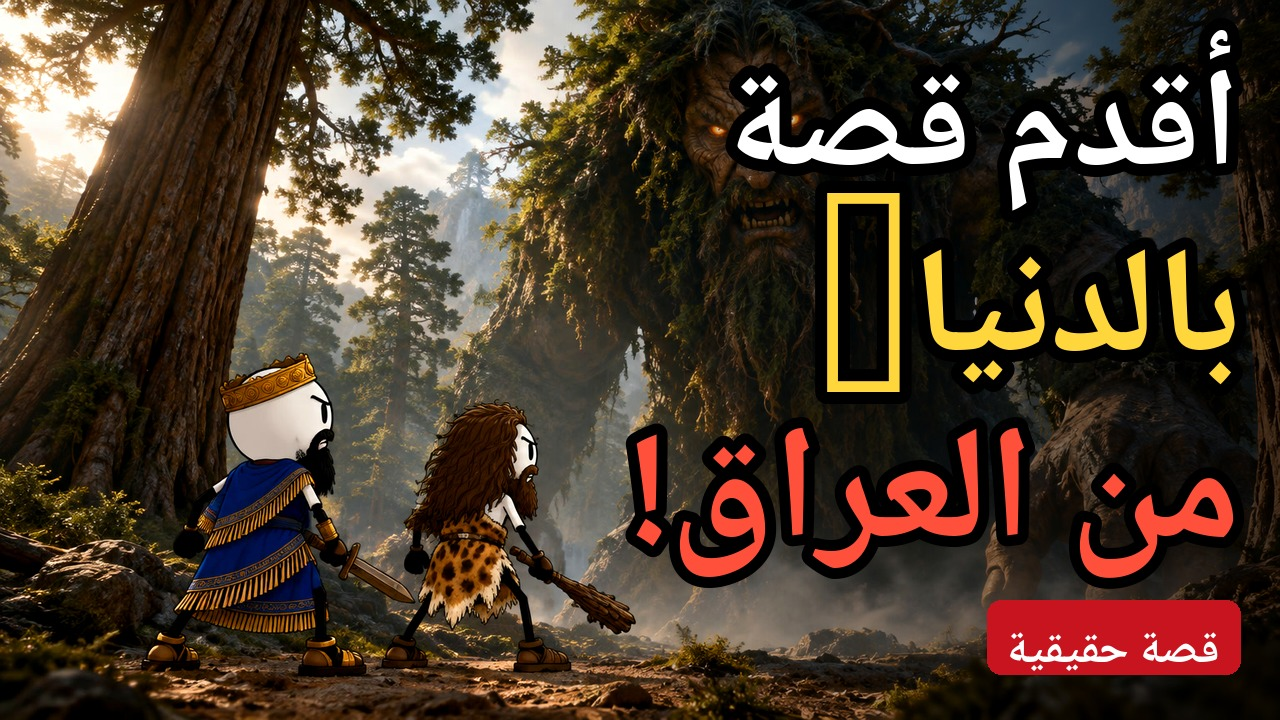
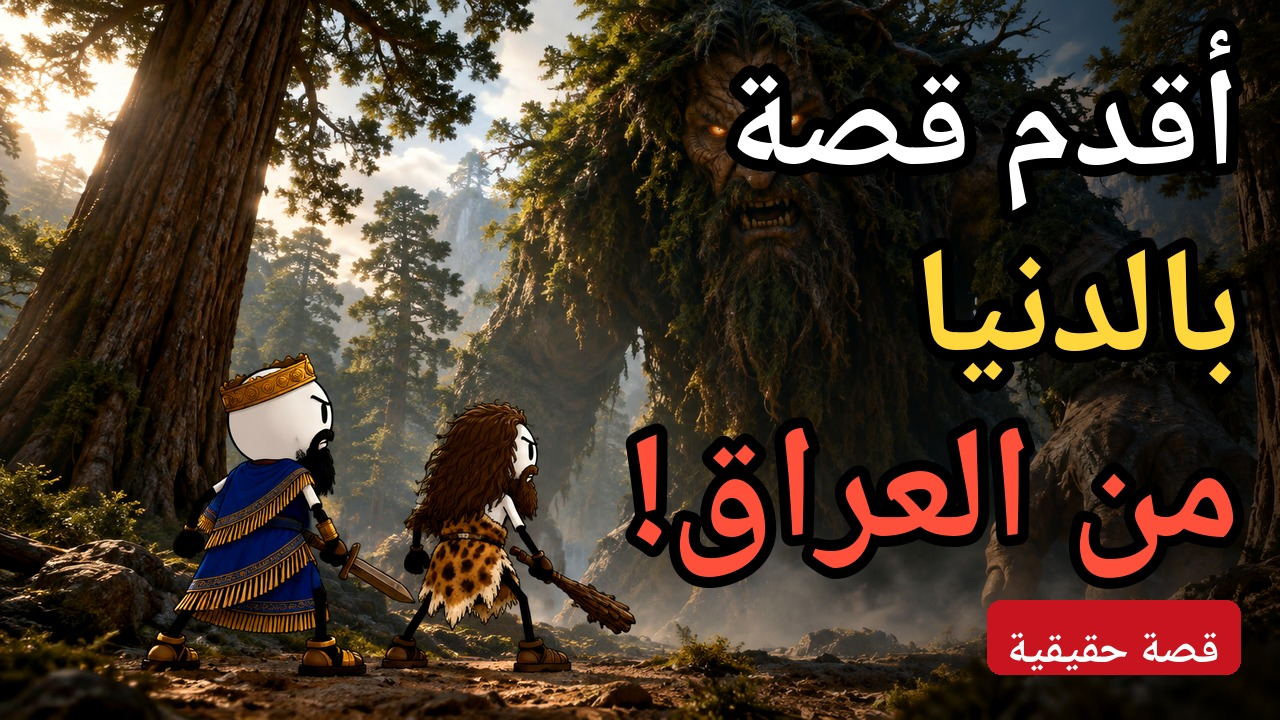
Musashi: all images, config, schedule; fix thumb glyph boxes
Claude-Session: https://claude.ai/code/session_01QEbwXC1gCW2hrwMbMeGhu6

Changed region(s): [[0.625, 0.2444, 0.7188, 0.55]]

diff --git a/studio/stories/musashi/build.py b/studio/stories/musashi/build.py
@@ -92,14 +92,14 @@ def overlay(i, x):
         p = Image.new('RGBA', (W, H), (0, 0, 0, 0)); im = text_img('٣٠ يوم', 220, (255, 214, 90), 10)
         p.alpha_composite(im, ((W - im.width) // 2, 300)); p.save(f'ov/pop{i:02d}.png'); pop = f'ov/pop{i:02d}.png'
     if hud == 'title':
-        p = Image.new('RGBA', (W, H), (0, 0, 0, 170)); a = text_img('أقدم قصة بالتاريخ', 120, (255, 255, 255), 8); b = text_img('ملحمة جلجامش', 140, (255, 214, 90), 9); c = text_img('قصة حقيقية', 80, (230, 230, 230), 6)
+        p = Image.new('RGBA', (W, H), (0, 0, 0, 170)); a = text_img('قديس السيف', 120, (255, 255, 255), 8); b = text_img('مياموتو موساشي', 140, (255, 214, 90), 9); c = text_img('قصة حقيقية', 80, (230, 230, 230), 6)
         p.alpha_composite(a, ((W - a.width) // 2, 230)); p.alpha_composite(b, ((W - b.width) // 2, 420)); p.alpha_composite(c, ((W - c.width) // 2, 700))
         p.save(f'ov/pop{i:02d}.png'); pop = f'ov/pop{i:02d}.png'
     if hud == 'day':
         p = Image.new('RGBA', (W, H), (0, 0, 0, 0)); im = text_img(ar(s[i].get('day', '')), 96, (255, 214, 90), 8)
         p.alpha_composite(im, ((W - im.width) // 2, 140)); p.save(f'ov/pop{i:02d}.png'); pop = f'ov/pop{i:02d}.png'
     if hud == 'black':
-        p = Image.new('RGBA', (W, H), (0, 0, 0, 0)); im = text_img('تاكل نبتة الخلود؟', 120, (255, 255, 255), 0)
+        p = Image.new('RGBA', (W, H), (0, 0, 0, 0)); im = text_img('السيف لو القلم؟', 120, (255, 255, 255), 0)
         p.alpha_composite(im, ((W - im.width) // 2, (H - im.height) // 2 - 40)); p.save(f'ov/pop{i:02d}.png'); pop = f'ov/pop{i:02d}.png'
     return pop
 
@@ -210,10 +210,10 @@ def hit(g=0.5):
     return (np.sin(2 * np.pi * np.cumsum(fr) / SR) * np.exp(-t * 4) * g).astype(np.float32)
 
 def section(i):
-    if i in (1, 2, 33, 47): return 'none'
-    if i in (3, 4, 12, 24, 25, 38, 46): return 'wind'
-    if i in (7, 23, 27, 29): return 'night_out'
-    if i in (5, 6, 9, 11, 42): return 'street'
+    if i in (2, 3, 38, 42, 43, 47): return 'none'
+    if i in (0, 1, 10, 11, 24, 27, 28, 29, 30, 31, 32, 34, 35, 36, 40, 46): return 'wind'
+    if i in (16, 17, 18): return 'night_out'
+    if i in (12, 13, 14, 19): return 'street'
     return 'murmur'
 for i, x in enumerate(s):
     st, d = times[i]; sec = section(i)
@@ -248,6 +248,6 @@ mix = mix[:int(TOTAL * SR)]
 mix /= max(1e-6, np.abs(mix).max()) / 0.9
 with wave.open('audio.wav', 'wb') as w:
     w.setnchannels(1); w.setsampwidth(2); w.setframerate(SR); w.writeframes((mix * 32767).astype(np.int16).tobytes())
-subprocess.run(['ffmpeg', '-v', 'error', '-y', '-i', 'video_noaudio.mp4', '-i', 'audio.wav', '-c:v', 'copy', '-af', 'loudnorm=I=-14:TP=-1.5:LRA=11', '-c:a', 'aac', '-b:a', '192k', '-ar', '48000', '-shortest', os.environ.get('OUT', 'gilgamesh.mp4')], check=True)
+subprocess.run(['ffmpeg', '-v', 'error', '-y', '-i', 'video_noaudio.mp4', '-i', 'audio.wav', '-c:v', 'copy', '-af', 'loudnorm=I=-14:TP=-1.5:LRA=11', '-c:a', 'aac', '-b:a', '192k', '-ar', '48000', '-shortest', os.environ.get('OUT', 'musashi.mp4')], check=True)
 json.dump([{'i': i, 'start': round(t0, 3), 'dur': round(dd, 3)} for i, (t0, dd) in enumerate(times)], open('timeline.json', 'w'))
 print('done', TOTAL)

diff --git a/studio/stories/musashi/thumb.py b/studio/stories/musashi/thumb.py
@@ -5,7 +5,7 @@ F = 'NotoNaskhArabic-Bold.ttf'
 def font(sz): return ImageFont.truetype(F, sz, layout_engine=ImageFont.Layout.RAQM)
 def text(d, xy, t, sz, fill, stroke=10, anchor='ra'):
     d.text(xy, t, font=font(sz), fill=fill, stroke_width=stroke, stroke_fill=(0, 0, 0), direction='rtl', language='ar', anchor=anchor)
-bg = Image.open('img_jpg/13.jpg').convert('RGB').resize((W, H), Image.LANCZOS)
+bg = Image.open('img_jpg/33.jpg').convert('RGB').resize((W, H), Image.LANCZOS)
 bg = ImageEnhance.Contrast(ImageEnhance.Color(bg).enhance(1.25)).enhance(1.1)
 # dark gradient on the right for text
 ov = Image.new('L', (W, H), 0); g = ImageDraw.Draw(ov)
@@ -13,9 +13,9 @@ for x in range(W):
     g.line([(x, 0), (x, H)], fill=int(max(0, (x - 520) / (W - 520)) * 190))
 bg.paste(Image.new('RGB', (W, H), (0, 0, 0)), (0, 0), ov)
 d = ImageDraw.Draw(bg)
-text(d, (W - 40, 15), 'أقدم قصة', 140, (255, 255, 255), 12)
-text(d, (W - 40, 190), 'بالدنيا…', 150, (255, 214, 60), 12)
-text(d, (W - 40, 365), 'من العراق!', 160, (255, 80, 60), 11)
+text(d, (W - 40, 15), 'ما انغلب', 140, (255, 255, 255), 12)
+text(d, (W - 40, 190), 'ولا مرة', 150, (255, 214, 60), 12)
+text(d, (W - 40, 365), 'قديس السيف!', 160, (255, 80, 60), 11)
 # small "قصة حقيقية" tag
 tag = 'قصة حقيقية'; f = font(46); bb = d.textbbox((0, 0), tag, font=f, direction='rtl', language='ar')
 tw, th = bb[2] - bb[0], bb[3] - bb[1]

diff --git a/studio/stories/musashi/shorts.py b/studio/stories/musashi/shorts.py
@@ -28,7 +28,7 @@ def stack(rows, sz, col, gap=6):
     out = Image.new('RGBA', (W, h), (0, 0, 0, 0)); y = 0
     for i in ims: out.alpha_composite(i, ((W - i.width)//2, y)); y += i.height + gap
     return out
-HEAD = 'أقدم قصة بالدنيا!'; SLUG = 'gilgamesh'; CLEAN = 'gilgamesh_clean.mp4'; OUTDIR = '../../../videos/shorts/' + SLUG
+HEAD = 'قديس السيف!'; SLUG = 'musashi'; CLEAN = 'musashi_clean.mp4'; OUTDIR = '../../../videos/shorts/' + SLUG
 os.makedirs('sov', exist_ok=True); os.makedirs(OUTDIR, exist_ok=True)
 FG_Y, FG_H = 470, 810
 for p, (a, b) in enumerate(PARTS, 1):

diff --git a/studio/stories/gilgamesh/thumb.py b/studio/stories/gilgamesh/thumb.py
@@ -14,7 +14,7 @@ for x in range(W):
 bg.paste(Image.new('RGB', (W, H), (0, 0, 0)), (0, 0), ov)
 d = ImageDraw.Draw(bg)
 text(d, (W - 40, 15), 'أقدم قصة', 140, (255, 255, 255), 12)
-text(d, (W - 40, 190), 'بالدنيا…', 150, (255, 214, 60), 12)
+text(d, (W - 40, 190), 'بالدنيا', 150, (255, 214, 60), 12)
 text(d, (W - 40, 365), 'من العراق!', 160, (255, 80, 60), 11)
 # small "قصة حقيقية" tag
 tag = 'قصة حقيقية'; f = font(46); bb = d.textbbox((0, 0), tag, font=f, direction='rtl', language='ar')
